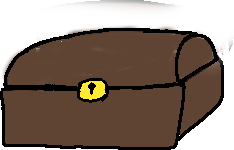
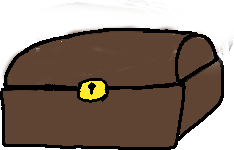
Bubbler opens and shuts, but no bubbles yet.

Changed region(s): [[0.359, 0.0, 0.7479, 0.0533]]

diff --git a/static/fish.js b/static/fish.js
@@ -200,6 +200,33 @@ PuffBrain.speed = function() {
 	return bit * 5000 + 1500;
 };
 
+var Bubbler = React.createClass({displayName: "Bubbler",
+	getInitialState: function() {
+		return {open:false,
+			leftPos: Math.random() * .5 * screen.width,
+			wide: screen.width * .15,
+		
+		};
+	},
+	componentDidMount: function() {
+		this.endBubble();
+	},
+	bubble: function() {
+		this.setState({open:true});
+		setTimeout(this.endBubble, 1500);
+	},
+	endBubble: function() {
+		this.setState({open:false});
+		setTimeout(this.bubble, Math.random() * 10000);
+	},
+	render: function() {
+		var open = "";
+		if(this.state.open)
+			open = "Open";
+		return React.createElement("img", {src: this.props.img + open + this.props.ext, style: {top:"80%", width: this.state.wide, height:"20%", left: this.state.leftPos}});
+	}
+});
+
 var FishBowl = React.createClass({displayName: "FishBowl",
 	render: function() {
 		console.log("render bowl");
@@ -229,6 +256,7 @@ React.createElement("img", {id: "sand", src: "static/img/fish/sand.png", classNa
 			React.createElement(Fish, {id: "puff", img: "static/img/fish/littlePuff", ext: ".png", brain: PuffBrain, size: "45px"}), 
 			scaryFish, 
 			tinyFish, 
+			React.createElement(Bubbler, {id: "chest", img: "static/img/fish/treasure", ext: ".png"}), 
 			React.createElement(Flora, {id: "flora1", img: "static/img/fish/seaweed.png", height: "80"}), 
 			React.createElement(Fish, {id: "t3", img: "static/img/fish/buckToothFish", ext: ".png", brain: SlowBrain, size: "45px"}), 
 			React.createElement(Fish, {id: "t4", img: "static/img/fish/buckToothFish", ext: ".png", brain: SlowBrain, size: "45px"}), 

diff --git a/jsx/fish.js b/jsx/fish.js
@@ -200,6 +200,33 @@ PuffBrain.speed = function() {
 	return bit * 5000 + 1500;
 };
 
+var Bubbler = React.createClass({
+	getInitialState: function() {
+		return {open:false,
+			leftPos: Math.random() * .5 * screen.width,
+			wide: screen.width * .15,
+		
+		};
+	},
+	componentDidMount: function() {
+		this.endBubble();
+	},
+	bubble: function() {
+		this.setState({open:true});
+		setTimeout(this.endBubble, 1500);
+	},
+	endBubble: function() {
+		this.setState({open:false});
+		setTimeout(this.bubble, Math.random() * 10000);
+	},
+	render: function() {
+		var open = "";
+		if(this.state.open)
+			open = "Open";
+		return <img src={this.props.img + open + this.props.ext} style={{top:"80%", width: this.state.wide, height:"20%", left: this.state.leftPos}}/>;
+	}
+});
+
 var FishBowl = React.createClass({
 	render: function() {
 		console.log("render bowl");
@@ -229,6 +256,7 @@ var FishBowl = React.createClass({
 			<Fish id="puff" img="static/img/fish/littlePuff" ext=".png" brain={PuffBrain} size="45px" />
 			{scaryFish}
 			{tinyFish}
+			<Bubbler id="chest" img="static/img/fish/treasure" ext=".png" />
 			<Flora id="flora1" img="static/img/fish/seaweed.png" height="80" />
 			<Fish id="t3" img="static/img/fish/buckToothFish" ext=".png" brain={SlowBrain} size="45px" />
 			<Fish id="t4" img="static/img/fish/buckToothFish" ext=".png" brain={SlowBrain} size="45px" />
